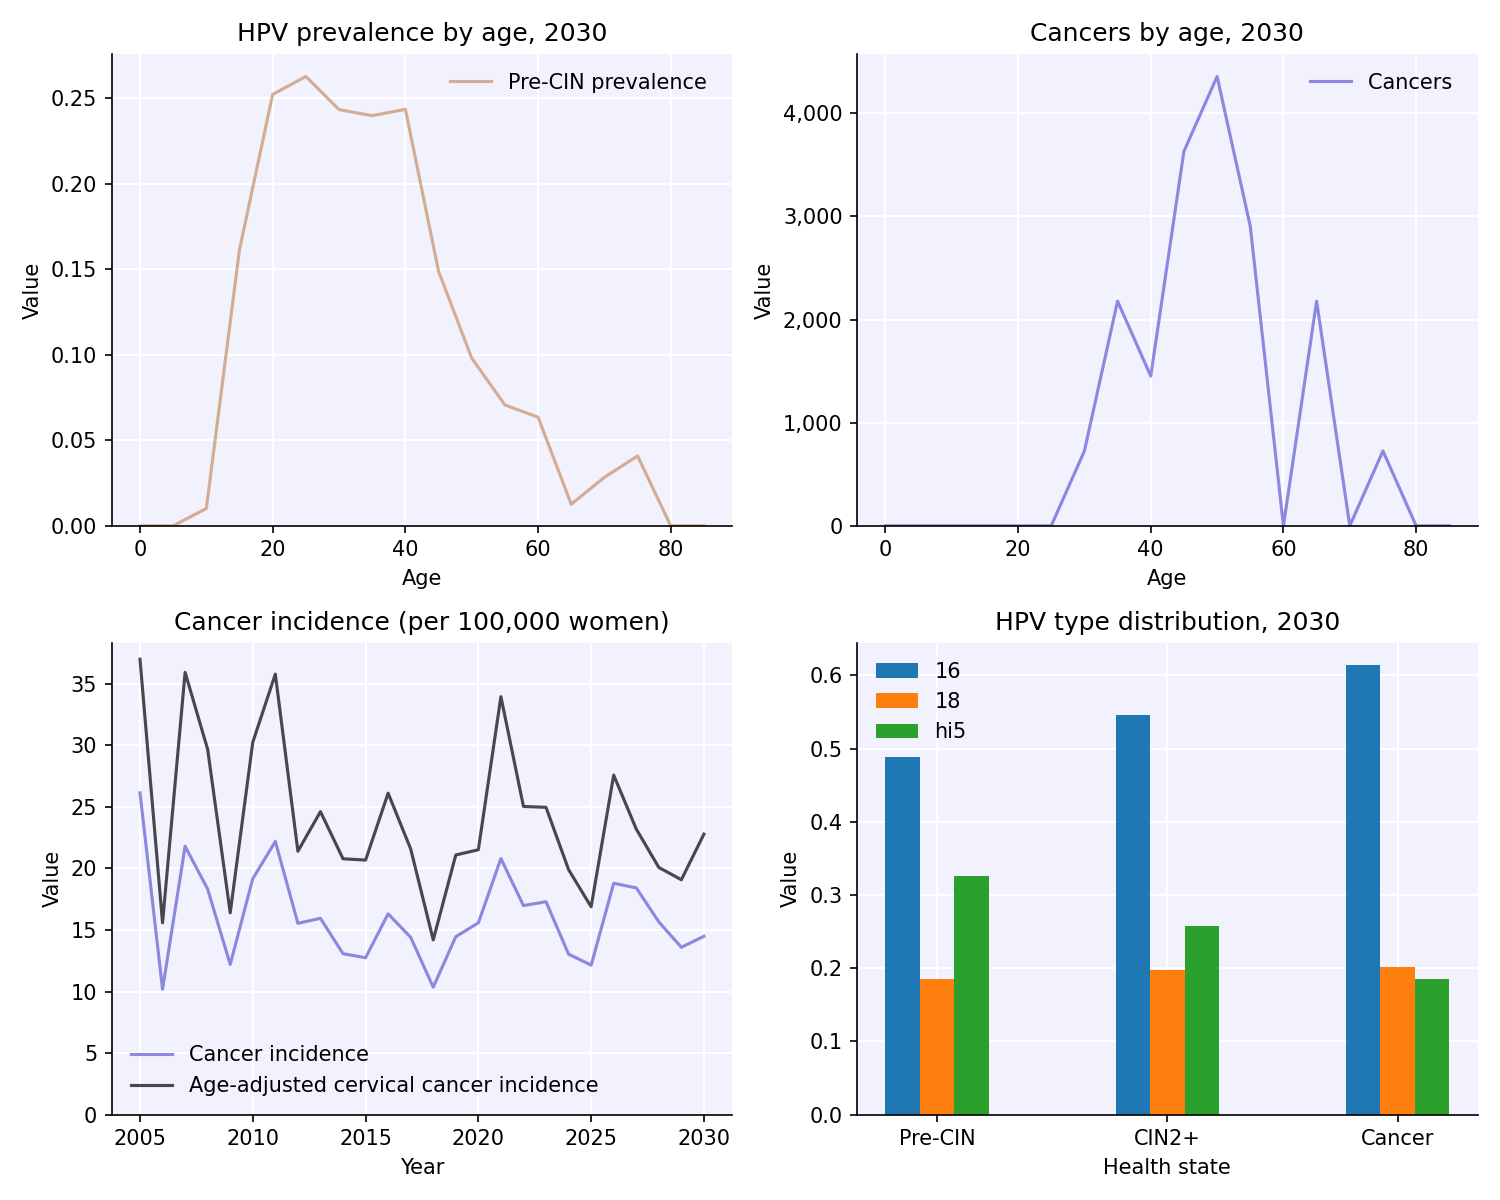
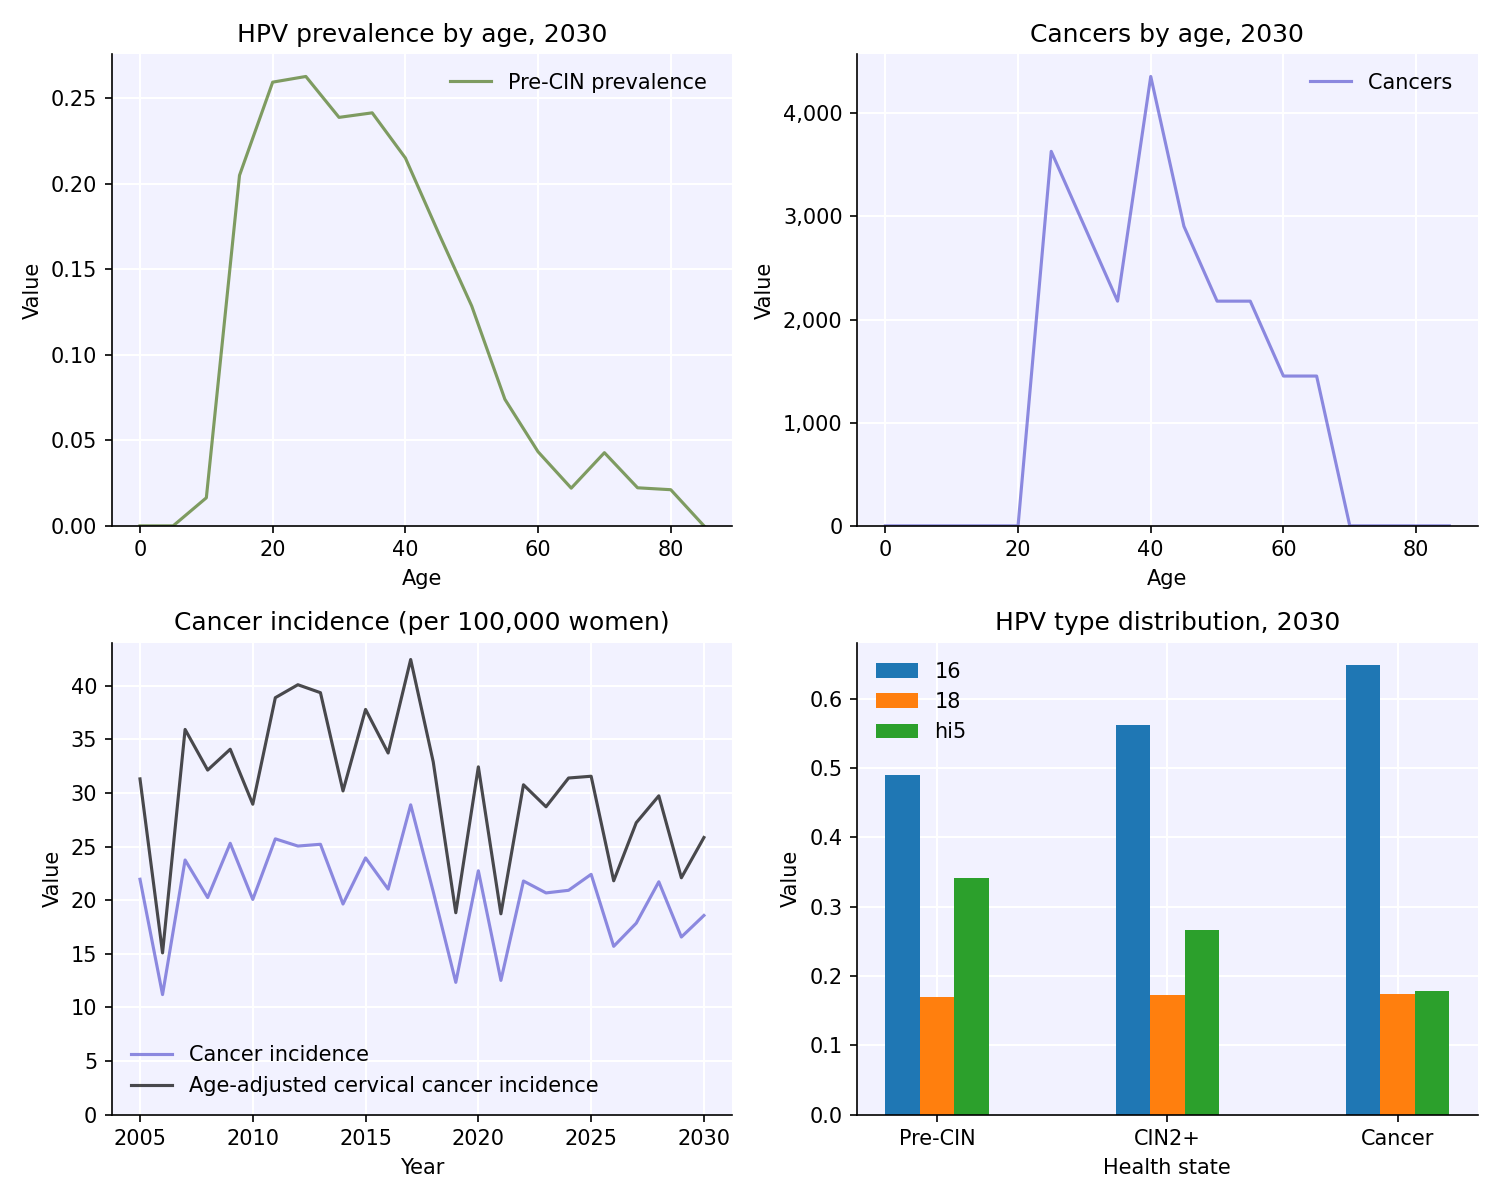
Nigeria calib temp completed

diff --git a/Nigeria_screening/Nigeria_calibrated_sim_new.py b/Nigeria_screening/Nigeria_calibrated_sim_new.py
@@ -1,0 +1,196 @@
+#!/usr/bin/env python3
+# -*- coding: utf-8 -*-
+"""
+Created on Tue Jul 15 09:40:03 2025
+
+@author: olivialeake
+"""
+
+import hpvsim as hpv
+
+# simulation pars
+sim_pars = dict(
+    n_agents = 10e3, # Have 50,000 people total in the population (NOTE: actual tanzanian pop in 1980 was 19.2million, so 1 agent represents about 380 people)
+    start = 1980, # Start the simulation in 1980
+    end = 2030,
+    burnin = 25, # Discard the first 20 years as burnin period
+    dt = 0.25,
+    verbose = 0, # Do not print any output
+    )
+
+location_pars = dict(
+    location = 'Nigeria',
+    network = 'default',     # Use layered network rather than random,
+    beta = 0.3 # Not a genotype parameter so specify it here. TEMP, update with Fabian parameters
+    )
+
+
+# Parameters specified by layer
+layer_pars = dict(
+   # f_partners = None,
+   # m_partners = None, #Leave as default for now as using default network and don't have the info for married and casual
+   # act = None
+   # age_act_pars = None
+   # layer_probs = None 
+   # dur_pship = None # Don't have info for this
+    condoms = dict(m=0.016, c=0.185)
+        )
+
+# layer_defaults['default']['mixing'], layer_defaults['default']['layer_probs'] = get_mixing('default')
+
+# Leave layer_probs as defualt. But need to know where to input number
+# of married and casual
+
+
+# Network paramters from Fabian calibration
+net_pars = {
+    'f_cross_layer' : 0.05, # temporary until get Fabian calib
+    'm_cross_layer' : 0.15 # temporary until get Fabian calib
+    }
+
+
+
+# Combine the dictionaries
+Nigeria_pars = {**location_pars, **layer_pars, **sim_pars, **net_pars}
+
+Nigeria_sim = hpv.Sim(Nigeria_pars, label = 'Nigeria sim', rand_seed = 2)
+# Should change the random seed if want to produce different sims
+
+
+### Once the sim has been created, you can the update the genotype parameters
+
+# Genotype parameters from Fabian claibration
+
+genotype_pars = hpv.parameters.get_genotype_pars()
+# then genotype_pars is the object dictionary containing all the genotypes
+
+genotype_pars.hpv16.dur_precin['par1'] = 6  # TEMP
+genotype_pars.hpv16.cin_fn['k'] = 0.3       # TEMP
+genotype_pars.hpv18.dur_precin['par2'] = 5  # TEMP
+genotype_pars.hpv18.cin_fn['k'] = 0.28      # TEMP
+
+
+# Assign the genotype parameters to the simulation
+Nigeria_sim.genotype_pars = genotype_pars # Notice genotype pars is instance specific rather than class
+
+
+# Check got correct parameters by inspecting
+print(Nigeria_sim.pars)
+# Has beta = 0.3 (default was 0.25 so know it has taken my pars)
+# m_cross_layer has also been updated
+
+
+# 'genotype_pars': objdict() , so need to check this individually
+print(Nigeria_sim.genotype_pars)
+ #2. 'cin_fn':     {'form': 'logf2', 'k': 0.28, 'x_infl': 0, 'ttc': 50}
+ # k = 0.28, so this has updated correctly
+
+
+
+
+# %% Running the sim
+
+Nigeria_sim.run()
+second_Nigeria_plot = Nigeria_sim.plot()
+
+hpv.savefig('/Users/olivialeake/Library/CloudStorage/OneDrive-Nexus365/Part B/BSP project/HPV Project/hpvsim/examples/Olivia testing HPVsim informally/Second_Nigeria_plot.png',
+            fig = second_Nigeria_plot)
+
+# Note that second nigeria plot has used the same random seed at first nigeria plot
+# The plots have changed ever so slighlty taking account for the udpated genotype parametesr
+# the genotype parameters are the only thing that is different between them
+# Note that First_Nigera_plot iscreated in Nigeria_calibrated_sim_old
+
+
+# I tried running the sim again but got the error saying that the simulation has already been ran
+# The idea is that you need to re-initialise it, because there are certain attributes
+# that need to be set at the beginning of the sim for it to run correctly
+# ie: initial HPV prevalence is set, then the burn-in period allows it to settle to what it shoudl be
+# also woman are expected to start with their target number of partners
+# if you re-run the simulation without re-initialising the sim, the parameters will start
+# in their end state rather than their beginning state
+
+
+print(Nigeria_sim.t)
+# 203
+
+
+# re-initialise the rest of the sim
+# Nigeria_sim.initialize()
+# This didn't work, but this does
+Nigeria_sim.initialize(reset= True) # think due to the change in population size
+# ie: the sim does not re-set the population size unless do reseet = TRUE
+
+print(Nigeria_sim.t)
+# 0 - timestep now 0 so know has reset
+
+
+
+# Check that parameters are as I set up
+print(Nigeria_sim.pars['beta']) # 0.3 , yes same
+print(Nigeria_sim.pars['condoms']) # 0.016 and 0.185, yes same !
+
+# Check genotype pars are same as I set up as these are treated differently
+print(Nigeria_sim.genotype_pars)
+# k=0.28 for hpv18 cin_fn , so yes this works !!
+
+
+
+
+# %% hpvsim Default parameters
+
+
+
+## Default hpv genotype parameters
+
+# Basic disease transmission parameters
+# pars['beta']                = 0.25
+
+
+# pars.hpv16 = sc.objdict()
+# pars.hpv16.dur_precin       = dict(dist='lognormal', par1=3, par2=9)  # Duration of infection prior to precancer, chosen so that ~50% clear after 1 year (Schiffman et al)
+# pars.hpv16.cin_fn           = dict(form='logf2', k=0.3, x_infl=0, ttc=50)  # Function mapping duration of infection to probability of developing cin
+# pars.hpv16.dur_cin          = dict(dist='lognormal', par1=5, par2=20) # Duration of episomal infection prior to cancer
+# pars.hpv16.cancer_fn        = dict(method='cin_integral', transform_prob=2e-3) # Function mapping duration of cin to probability of cancer
+# pars.hpv16.rel_beta         = 1.0  # Baseline relative transmissibility, other genotypes are relative to this
+# pars.hpv16.sero_prob        = 0.75 # https://www.sciencedirect.com/science/article/pii/S2666679022000027#fig1
+
+# pars.hpv18 = sc.objdict()
+# pars.hpv18.dur_precin       = dict(dist='lognormal', par1=2.5, par2=9)  # Duration of infection prior to precancer, chosen so that ~50% clear after 6m (Schiffman et al)
+# pars.hpv18.dur_cin          = dict(dist='lognormal', par1=5, par2=20) # Duration of infection prior to cancer
+# pars.hpv18.cin_fn           = dict(form='logf2', k=0.25, x_infl=0, ttc=50)  # Function mapping duration of infection to probability of developing cin
+# pars.hpv18.cancer_fn        = dict(method='cin_integral', transform_prob=2e-3)  # Function mapping duration of infection to severity
+# pars.hpv18.rel_beta         = 0.75  # Relative transmissibility, current estimate from Harvard model calibration of m2f tx
+# pars.hpv18.sero_prob        = 0.56 # https://www.sciencedirect.com/science/article/pii/S2666679022000027#fig1
+
+
+## Default netowrk parameters
+
+# pars['f_cross_layer']   = 0.05  # Proportion of females who have concurrent cross-layer relationships - by layer
+# pars['m_cross_layer']   = 0.30  # Proportion of males who have concurrent cross-layer relationships - by layer
+
+
+## These are the defaults for the defualt network
+
+    # # Specify defaults for basic sexual network with marital, casual, and one-off partners
+    # layer_defaults['default'] = dict(
+    #     m_partners = dict(
+    #         m=dict(dist='poisson1', par1=0.01), # Everyone in this layer has one marital partner; this captures *additional* marital partners. If using a poisson distribution, par1 is roughly equal to the proportion of people with >1 spouse
+    #         c=dict(dist='poisson1', par1=0.5)
+    #     ),  # If using a poisson distribution, par1 is roughly equal to the proportion of people with >1 casual partner within a single time step
+    #     f_partners = dict(
+    #         m=dict(dist="poisson1", par1=0.01),
+    #         c=dict(dist='poisson', par1=1), # Defaults: {'0': 0.36, '1': 0.37, '2': 0.19, '3': 0.06, '4+':0.02}
+    #     ),
+    #     acts         = dict(m=dict(dist='neg_binomial', par1=80, par2=40), # Default number of acts per year for people at sexual peak
+    #                         c=dict(dist='neg_binomial', par1=50, par2=5)), # Default number of acts per year for people at sexual peak
+    #     age_act_pars = dict(m=dict(peak=30, retirement=100, debut_ratio=0.5, retirement_ratio=0.1), # Parameters describing changes in coital frequency over agent lifespans
+    #                         c=dict(peak=25, retirement=100, debut_ratio=0.5, retirement_ratio=0.1)),
+    #     dur_pship   = dict(m=dict(dist='neg_binomial', par1=80, par2=3), # This gives: mar_dur = {'0-5y': 0.015, '5-10y': 0.025, '10-20y':0.06, '20-50y':0.25, '50+':0.65}
+    #                        c=dict(dist='lognormal', par1=1, par2=2)), # This gives: cas_dur = {'0-3m': 0.33, '3-6m': 0.22, '6-12m': 0.2, '1-2y':0.15, '2-5y':0.1}
+    #     condoms     = dict(m=0.01, c=0.2),  # Default proportion of acts in which condoms are used
+    # )
+    # layer_defaults['default']['mixing'], layer_defaults['default']['layer_probs'] = get_mixing('default')
+    
+
+

diff --git a/Nigeria_screening/Nigeria_calibrated_sim_old.py b/Nigeria_screening/Nigeria_calibrated_sim_old.py
@@ -65,20 +65,23 @@ layer_pars = dict(
     
 
 
+# %% DIDN'T WORK SO COMMENTED OUT
+
+
 # Genotype parameters from Fabian claibration
 
-geno_pars = {
-        'beta': 0.3,  # temporary until get Fabian calib
-        'genotype_pars': {
-            'hpv16': {
-                'dur_precin': {'par1': 6},
-                'cin_fn': {'k': 0.3},
-            },
-            'hpv18': {
-                'dur_precin': {'par2': 5},
-            },
-        },
-    }
+# geno_pars = {
+#         'beta': 0.3,  # temporary until get Fabian calib
+#         'genotype_pars': {
+#             'hpv16': {
+#                 'dur_precin': {'par1': 6},
+#                 'cin_fn': {'k': 0.3},
+#             },
+#             'hpv18': {
+#                 'dur_precin': {'par2': 5},
+#             },
+#         },
+#     }
 
 
 
@@ -90,6 +93,9 @@ geno_pars = {
 #     pars['hpv16']['cin_fn']['k'] = 0.3  # temporary until get Fabian calib
 #     )
 
+# %%
+
+
 # Network paramters from Fabian calibration
 net_pars = {
     'f_cross_layer' : 0.05, # temporary until get Fabian calib
@@ -97,7 +103,7 @@ net_pars = {
     }
 
 # Combine the dictionaries
-Nigeria_pars = {**location_pars, **layer_pars, **sim_pars, **geno_pars, **net_pars}
+Nigeria_pars = {**location_pars, **layer_pars, **sim_pars, **net_pars}
 
 Nigeria_sim = hpv.Sim(Nigeria_pars, label = 'Nigeria sim', rand_seed = 2)
 # Should change the random seed if want to produce different sims
@@ -107,7 +113,7 @@ Nigeria_sim = hpv.Sim(Nigeria_pars, label = 'Nigeria sim', rand_seed = 2)
 
 # Has beta = 0.3 (default was 0.25 so know it has taken my pars)
 # m_cross_layer has also been updated
-# genotype parameters have also been updated ! So this is correct !
+
 
 
 ## Default hpv genotype parameters

diff --git a/examples/Olivia testing HPVsim informally/vaccination_testing.py b/examples/Olivia testing HPVsim informally/vaccination_testing.py
@@ -1,0 +1,31 @@
+#!/usr/bin/env python3
+# -*- coding: utf-8 -*-
+"""
+Created on Wed Jul 16 12:49:48 2025
+
+@author: olivialeake
+"""
+
+## Testing adding in the prophlyactic vaccination introdcued in Oct 2023 for 9-14 year olds
+
+import hpvsim as hpv
+
+
+
+# vx = hpv.routine_vx(prob=prob, start_year=2015, age_range=[9,10], product='bivalent')
+
+
+# # Create the sim with and without interventions
+# orig_sim = hpv.Sim(pars, label='Baseline')
+# sim = hpv.Sim(pars, interventions = vx, label='With vaccination')
+
+# # Run and plot
+# msim = hpv.parallel(orig_sim, sim)
+# msim.plot();
+
+
+
+
+from hpvsim.Nigeria_screening.Nigeria_calibrated_sim_new import Nigeria_sim
+
+print(Nigeria_sim.pars)

diff --git a/examples/Olivia testing HPVsim informally/Nigeria_pars.py b/examples/Olivia testing HPVsim informally/Nigeria_pars.py
@@ -6,6 +6,8 @@ Created on Tue Jul 15 09:40:03 2025
 @author: olivialeake
 """
 
+### LOOK AT nigeria_calibrated_sim_new FOR THE CORRECT WAY TO DO THIS
+
 import hpvsim as hpv
 
 # simulation pars

diff --git a/Nigeria_screening/__init__.py b/Nigeria_screening/__init__.py
@@ -1,0 +1,8 @@
+#!/usr/bin/env python3
+# -*- coding: utf-8 -*-
+"""
+Created on Wed Jul 16 12:59:56 2025
+
+@author: olivialeake
+"""
+
